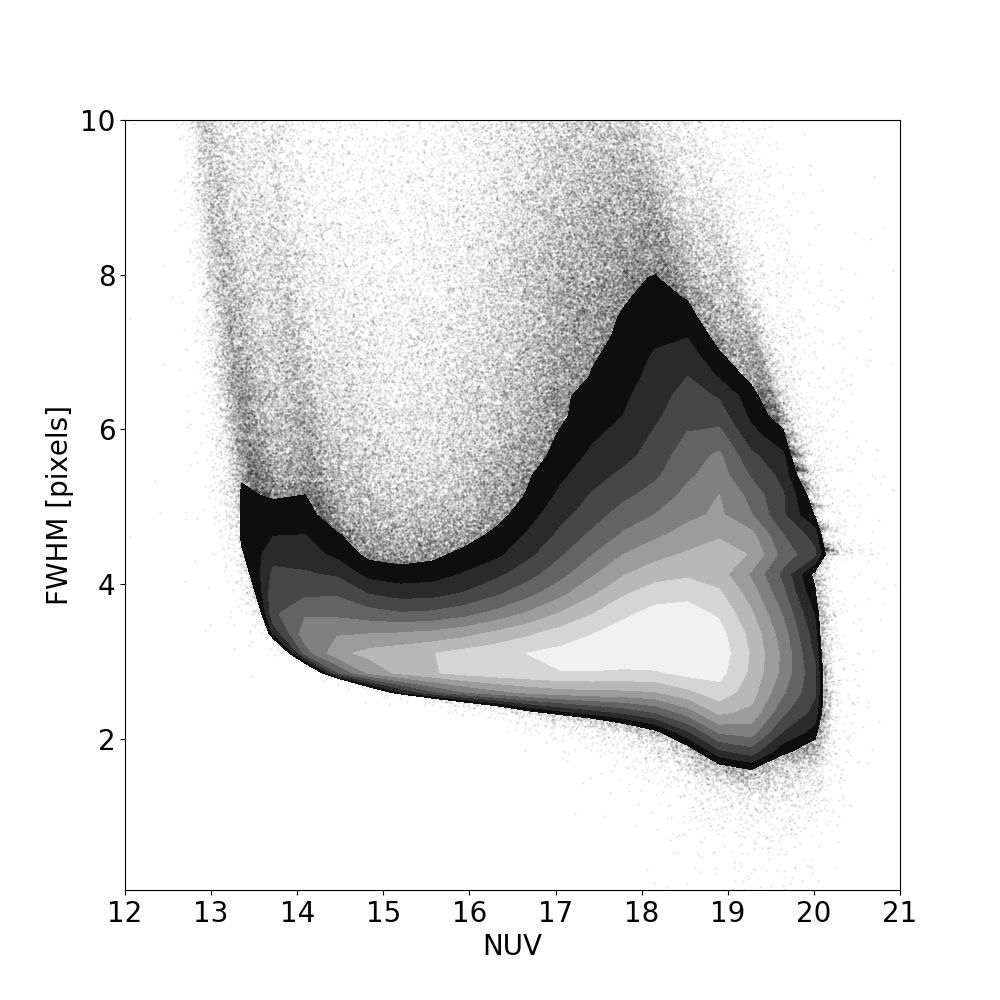
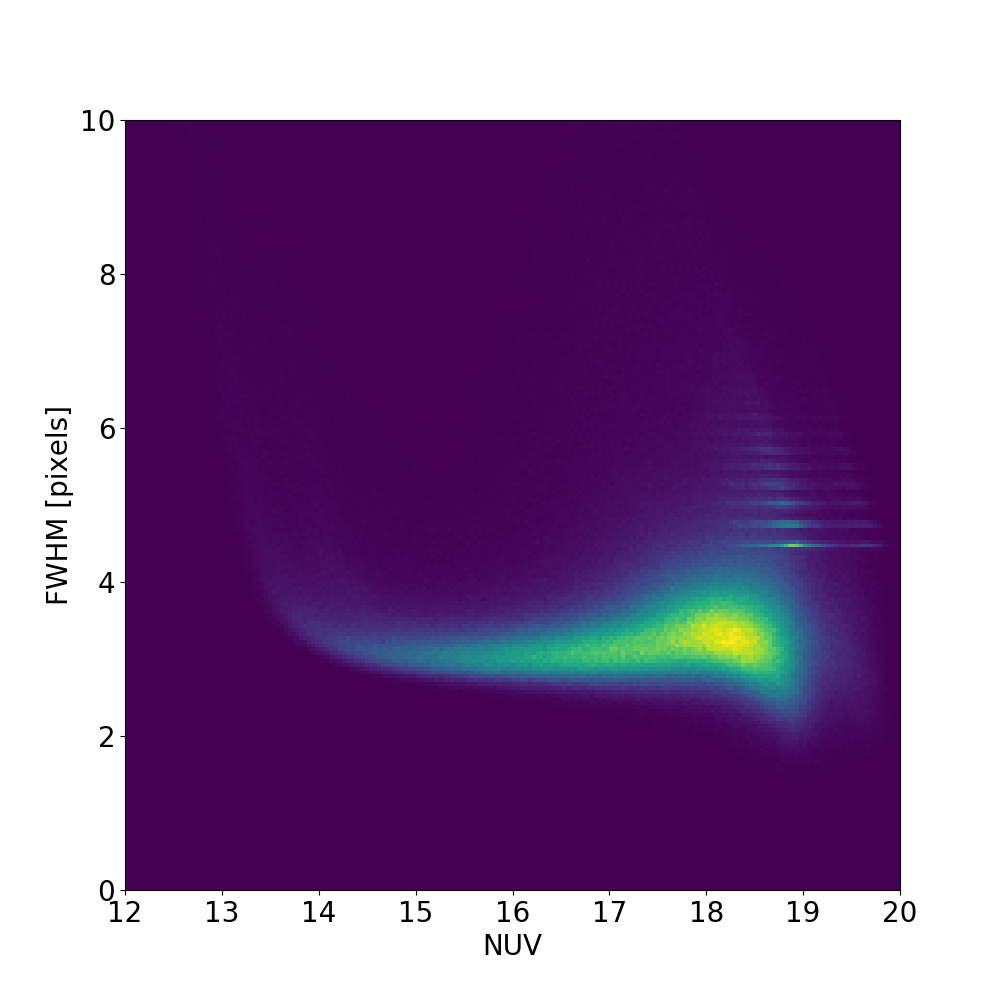
new images

diff --git a/pipeline/planepaperplots.py b/pipeline/planepaperplots.py
@@ -149,7 +149,7 @@ plt.show()
 ############################################################
 # NUV comparison
 ############################################################
-gg = fits.open('plane_gais_11_27_18.fits')[1].data
+gg = fits.open('plane_gais_06_12_19.fits')[1].data
 
 '''
 averages = []
@@ -163,11 +163,11 @@ for mag in np.arange(12.5, 20.5, 0.5):
 '''
 
 # Subtract 0.25 mag from plane NUV because the offset was added to the _cut.fits file
-scatter_contour(gg['nuv_mag'], gg['nuv_mag']-(gg['nuv']-0.25), threshold=10000, log_counts=True, histogram2d_args=dict(bins=(40)), plot_args=dict(color='k', markersize=1, alpha=0.1), contour_args=dict(cmap=cm.gray))
+scatter_contour(gg['nuv_mag'], gg['nuv_mag']-(gg['nuv']), threshold=10000, log_counts=True, histogram2d_args=dict(bins=(40)), plot_args=dict(color='k', markersize=1, alpha=0.1), contour_args=dict(cmap=cm.gray))
 
 plt.axhline(y=0, color='red')
-plt.xlim(12, 22.5)
-plt.ylim(-1, 1.5)
+plt.xlim(13, 21)
+plt.ylim(-0.5, 1)
 plt.xlabel('NUV (GAIS)')
 plt.ylabel('$\Delta$NUV (GAIS - Plane)')
 plt.show()
@@ -282,13 +282,21 @@ ra = np.array(g['ra_cent'], dtype=np.float32)
 dec = np.array(g['dec_cent'], dtype=np.float32)
 gal = SkyCoord(ra*u.deg, dec*u.deg, frame='icrs').galactic
 
-#cat = fits.open('starcat_allscans_10-12-18_cuts.fits')[1].data
+cat = fits.open('starcat_allscans_06_12_19.fits')[1].data
+w = np.where((cat['expsum'] > 4) & (cat['ctsum'] > 1))
+cat = cat[w]
 catgal = SkyCoord(cat['gl']*u.deg, cat['gb']*u.deg, frame='galactic')
 cid, gid, angsep, ang3d = gal.search_around_sky(catgal, 3*u.degree)
 q = np.unique(cid)
 carea = cat[q]
 
-#galex = fits.open('GAISPlane.fits')[1].data
+
+# Or load this instead
+carea = fits.open('plane_ingaisarea.fits')[1].data
+
+galex = fits.open('GAISPlane.fits')[1].data
+q = np.where((galex['nuv_magerr'] > 0) & (galex['nuv_magerr'] < 100) & (galex['nuv_magerr']/galex['nuv_mag'] < 0.1))
+galex = galex[q]
 
 plt.hist(galex['nuv_mag'], range=[12,25], bins=20, label='GAIS', log=True, alpha=0.7, color='#00E6FF')
 plt.hist(carea['nuv'], range=[12,25], bins=20, histtype='step', linewidth=2, stacked=True, label='UVGAPS in GAIS area', log=True, color='red')
@@ -326,6 +334,26 @@ cind, cgind, a, b = search_around_sky(catgal, cggal, 0.1*u.arcsec)
 cat.remove_rows(cind)
 
 len(cat)
+
+############################################################
+# Exposure time vs gb
+############################################################
+exp = fits.open('expdata_11_28_18.fits')[1].data
+
+scans = ['scan0.5', 'scan1.4', 'scan2.3', 'scan3.2', 'scan4.1', 'scan5.0', 'scan5.9', 'scan6.8', 'scan8.6', 'scan9.5', 'scan10.4', 'scan11.3', 'scan12.2', 'scan14.0', 'scan14.9', 'scan15.8', 'scan16.7', 'scan17.6', 'scan18.5', 'scan19.4', 'scan20.3', 'scan21.2', 'scan22.1', 'scan23.0', 'scan23.9', 'scan24.8', 'scan25.7', 'scan28.4', 'scan29.3', 'scan30.2', 'scan31.1', 'scan32.0', 'scan32.9', 'scan33.8', 'scan34.7', 'scan35.6', 'scan39.2', 'scan42.8', 'scan43.7', 'scan44.6', 'scan45.5', 'scan46.4', 'scan47.3', 'scan48.2', 'scan49.1', 'scan50.0', 'scan67.1', 'scan68.9', 'scan71.6', 'scan74.3', 'scan75.2', 'scan76.1', 'scan77.0', 'scan77.9', 'scan78.8', 'scan79.7', 'scan80.6', 'scan81.5', 'scan82.4', 'scan83.3', 'scan87.8', 'scan88.7', 'scan89.6', 'scan90.5', 'scan91.4', 'scan92.3', 'scan93.2', 'scan94.1', 'scan95.0', 'scan95.9', 'scan96.8', 'scan97.7', 'scan98.6', 'scan99.5', 'scan100.4', 'scan101.3', 'scan102.2', 'scan103.1', 'scan104.0', 'scan104.9', 'scan105.8', 'scan106.7', 'scan107.6', 'scan110.3', 'scan111.2', 'scan112.1', 'scan113.0', 'scan113.9', 'scan114.8', 'scan119.3', 'scan121.1', 'scan122.9', 'scan124.7', 'scan125.6', 'scan126.5', 'scan127.4', 'scan128.3', 'scan129.2', 'scan130.1', 'scan131.0', 'scan131.9', 'scan132.8', 'scan133.7', 'scan134.6', 'scan135.5', 'scan136.4', 'scan137.3', 'scan138.2', 'scan139.1', 'scan140.0', 'scan140.9', 'scan141.8', 'scan143.6', 'scan144.5', 'scan145.4', 'scan148.1', 'scan149.0', 'scan149.9', 'scan150.8', 'scan151.7', 'scan152.6', 'scan153.5', 'scan155.3', 'scan156.2', 'scan157.1', 'scan158.0', 'scan160.7', 'scan161.6', 'scan163.4', 'scan167.0', 'scan167.9', 'scan172.4', 'scan173.3', 'scan174.2', 'scan175.1', 'scan176.0', 'scan176.9', 'scan177.8', 'scan178.7', 'scan179.6', 'scan180.5', 'scan183.2', 'scan185.0', 'scan190.4', 'scan191.3', 'scan197.6', 'scan198.5', 'scan200.3', 'scan201.2', 'scan203.0', 'scan203.9', 'scan205.7', 'scan206.6', 'scan207.5', 'scan208.4', 'scan209.3', 'scan210.2', 'scan211.1', 'scan212.0', 'scan212.9', 'scan213.8', 'scan214.7', 'scan215.6', 'scan216.5', 'scan217.4', 'scan218.3', 'scan219.2', 'scan220.1', 'scan221.0', 'scan221.9', 'scan222.8', 'scan223.7', 'scan224.6', 'scan225.5', 'scan226.4', 'scan228.2', 'scan229.1', 'scan230.0', 'scan230.9', 'scan231.8', 'scan234.5', 'scan235.4', 'scan236.3', 'scan237.2', 'scan238.1', 'scan239.0', 'scan239.9', 'scan240.8', 'scan241.7', 'scan242.6', 'scan243.5', 'scan244.4', 'scan245.3', 'scan246.2', 'scan247.1', 'scan248.0', 'scan248.9', 'scan249.8', 'scan250.7', 'scan251.6', 'scan252.5', 'scan253.4', 'scan254.3', 'scan255.2', 'scan256.1', 'scan257.0', 'scan258.8', 'scan259.7', 'scan260.6', 'scan261.5', 'scan263.3', 'scan264.2', 'scan265.1', 'scan266.0', 'scan266.9', 'scan268.7', 'scan269.6', 'scan270.5', 'scan271.4', 'scan272.3', 'scan273.2', 'scan274.1', 'scan275.0', 'scan275.9', 'scan276.8', 'scan278.6', 'scan279.5', 'scan281.3', 'scan283.1', 'scan284.0', 'scan285.8', 'scan286.7', 'scan288.5', 'scan289.4', 'scan290.3', 'scan291.2', 'scan292.1', 'scan293.0', 'scan293.9', 'scan295.7', 'scan297.5', 'scan298.4', 'scan301.1', 'scan302.0', 'scan302.9', 'scan303.8', 'scan304.7', 'scan305.6', 'scan306.5', 'scan308.3', 'scan309.2', 'scan310.1', 'scan315.5', 'scan316.4', 'scan317.3', 'scan318.2', 'scan319.1', 'scan320.0', 'scan320.9', 'scan321.8', 'scan322.7', 'scan323.6', 'scan324.5', 'scan325.4', 'scan326.3', 'scan327.2', 'scan328.1', 'scan329.0', 'scan329.9', 'scan331.7', 'scan332.6', 'scan333.5', 'scan334.4', 'scan335.3', 'scan338.0', 'scan338.9', 'scan339.8', 'scan341.6', 'scan342.5', 'scan343.4', 'scan345.2', 'scan348.8', 'scan349.7', 'scan350.6', 'scan351.5', 'scan352.4', 'scan353.3', 'scan354.2', 'scan355.1', 'scan356.0', 'scan357.8', 'scan358.7', 'scan359.0']
+
+expvals = 0
+for i in range(len(scans)):
+    expvals += exp[scans[i]]
+    #if (i % 20 == 0) & (i != 0):
+    expvals = expvals#/20.
+    plt.plot(np.linspace(-10, 10, len(expvals)), expvals, label=str(i), linewidth=0.1, alpha=0.3)
+    expvals = 0
+plt.xlabel('Galactic Latitude')
+plt.ylabel('Exposure time [s]')
+plt.ylim(0, 200)
+plt.show()
+
 
 
 

diff --git a/pipeline/misc.py b/pipeline/misc.py
@@ -384,8 +384,8 @@ for i in range(len(sg)):
 ######################################################################
 sg = fits.open('gais_tgas_apass_dust.fits')[1].data
 sg = sg[~np.isnan(sg['ebv'])]
-
-fig, (ax1, ax2) = plt.subplots(2, 1)
+artefact
+fig, (ax1, ax2) = plt.subplots(2, 1)artefact
 scatter_contour((sg['nuv_mag']-sg['ebv']*7.24)-(sg['phot_g_mean_mag']-sg['ebv']*3.303), (sg['MNUV']-sg['ebv']*7.24), threshold=1000, log_counts=True, histogram2d_args=dict(bins=40), plot_args=dict(color='k', markersize=1, alpha=0.1), contour_args=dict(cmap=cm.gray), ax=ax2)
 scatter_contour((sg['nuv_mag']-sg['ebv']*7.24)-(sg['phot_g_mean_mag']-sg['ebv']*3.303), (sg['MG']-sg['ebv']*3.303), threshold=1000, log_counts=True, histogram2d_args=dict(bins=40), plot_args=dict(color='k', markersize=1, alpha=0.1), contour_args=dict(cmap=cm.gray), ax=ax1)
 ax1.set_xlim((0, 12))
@@ -920,15 +920,20 @@ for scan in scans:
 ascii.write(allexp, 'expdata_11_28_18.txt', format='basic')
 
 
+exp = fits.open('expdata_11_28_18.fits')[1].data
+
 scans = ['scan0.5', 'scan1.4', 'scan2.3', 'scan3.2', 'scan4.1', 'scan5.0', 'scan5.9', 'scan6.8', 'scan8.6', 'scan9.5', 'scan10.4', 'scan11.3', 'scan12.2', 'scan14.0', 'scan14.9', 'scan15.8', 'scan16.7', 'scan17.6', 'scan18.5', 'scan19.4', 'scan20.3', 'scan21.2', 'scan22.1', 'scan23.0', 'scan23.9', 'scan24.8', 'scan25.7', 'scan28.4', 'scan29.3', 'scan30.2', 'scan31.1', 'scan32.0', 'scan32.9', 'scan33.8', 'scan34.7', 'scan35.6', 'scan39.2', 'scan42.8', 'scan43.7', 'scan44.6', 'scan45.5', 'scan46.4', 'scan47.3', 'scan48.2', 'scan49.1', 'scan50.0', 'scan67.1', 'scan68.9', 'scan71.6', 'scan74.3', 'scan75.2', 'scan76.1', 'scan77.0', 'scan77.9', 'scan78.8', 'scan79.7', 'scan80.6', 'scan81.5', 'scan82.4', 'scan83.3', 'scan87.8', 'scan88.7', 'scan89.6', 'scan90.5', 'scan91.4', 'scan92.3', 'scan93.2', 'scan94.1', 'scan95.0', 'scan95.9', 'scan96.8', 'scan97.7', 'scan98.6', 'scan99.5', 'scan100.4', 'scan101.3', 'scan102.2', 'scan103.1', 'scan104.0', 'scan104.9', 'scan105.8', 'scan106.7', 'scan107.6', 'scan110.3', 'scan111.2', 'scan112.1', 'scan113.0', 'scan113.9', 'scan114.8', 'scan119.3', 'scan121.1', 'scan122.9', 'scan124.7', 'scan125.6', 'scan126.5', 'scan127.4', 'scan128.3', 'scan129.2', 'scan130.1', 'scan131.0', 'scan131.9', 'scan132.8', 'scan133.7', 'scan134.6', 'scan135.5', 'scan136.4', 'scan137.3', 'scan138.2', 'scan139.1', 'scan140.0', 'scan140.9', 'scan141.8', 'scan143.6', 'scan144.5', 'scan145.4', 'scan148.1', 'scan149.0', 'scan149.9', 'scan150.8', 'scan151.7', 'scan152.6', 'scan153.5', 'scan155.3', 'scan156.2', 'scan157.1', 'scan158.0', 'scan160.7', 'scan161.6', 'scan163.4', 'scan167.0', 'scan167.9', 'scan172.4', 'scan173.3', 'scan174.2', 'scan175.1', 'scan176.0', 'scan176.9', 'scan177.8', 'scan178.7', 'scan179.6', 'scan180.5', 'scan183.2', 'scan185.0', 'scan190.4', 'scan191.3', 'scan197.6', 'scan198.5', 'scan200.3', 'scan201.2', 'scan203.0', 'scan203.9', 'scan205.7', 'scan206.6', 'scan207.5', 'scan208.4', 'scan209.3', 'scan210.2', 'scan211.1', 'scan212.0', 'scan212.9', 'scan213.8', 'scan214.7', 'scan215.6', 'scan216.5', 'scan217.4', 'scan218.3', 'scan219.2', 'scan220.1', 'scan221.0', 'scan221.9', 'scan222.8', 'scan223.7', 'scan224.6', 'scan225.5', 'scan226.4', 'scan228.2', 'scan229.1', 'scan230.0', 'scan230.9', 'scan231.8', 'scan234.5', 'scan235.4', 'scan236.3', 'scan237.2', 'scan238.1', 'scan239.0', 'scan239.9', 'scan240.8', 'scan241.7', 'scan242.6', 'scan243.5', 'scan244.4', 'scan245.3', 'scan246.2', 'scan247.1', 'scan248.0', 'scan248.9', 'scan249.8', 'scan250.7', 'scan251.6', 'scan252.5', 'scan253.4', 'scan254.3', 'scan255.2', 'scan256.1', 'scan257.0', 'scan258.8', 'scan259.7', 'scan260.6', 'scan261.5', 'scan263.3', 'scan264.2', 'scan265.1', 'scan266.0', 'scan266.9', 'scan268.7', 'scan269.6', 'scan270.5', 'scan271.4', 'scan272.3', 'scan273.2', 'scan274.1', 'scan275.0', 'scan275.9', 'scan276.8', 'scan278.6', 'scan279.5', 'scan281.3', 'scan283.1', 'scan284.0', 'scan285.8', 'scan286.7', 'scan288.5', 'scan289.4', 'scan290.3', 'scan291.2', 'scan292.1', 'scan293.0', 'scan293.9', 'scan295.7', 'scan297.5', 'scan298.4', 'scan301.1', 'scan302.0', 'scan302.9', 'scan303.8', 'scan304.7', 'scan305.6', 'scan306.5', 'scan308.3', 'scan309.2', 'scan310.1', 'scan315.5', 'scan316.4', 'scan317.3', 'scan318.2', 'scan319.1', 'scan320.0', 'scan320.9', 'scan321.8', 'scan322.7', 'scan323.6', 'scan324.5', 'scan325.4', 'scan326.3', 'scan327.2', 'scan328.1', 'scan329.0', 'scan329.9', 'scan331.7', 'scan332.6', 'scan333.5', 'scan334.4', 'scan335.3', 'scan338.0', 'scan338.9', 'scan339.8', 'scan341.6', 'scan342.5', 'scan343.4', 'scan345.2', 'scan348.8', 'scan349.7', 'scan350.6', 'scan351.5', 'scan352.4', 'scan353.3', 'scan354.2', 'scan355.1', 'scan356.0', 'scan357.8', 'scan358.7', 'scan359.0']
 
 expvals = 0
-for i in range(len(exp)):
+for i in range(len(scans)):
     expvals += exp[scans[i]]
-    if (i % 20 == 0) & (i != 0):
-        expvals = expvals/20.
-        plt.plot(np.linspace(-10, 10, len(expvals)), expvals, label=str(i))
-        expvals = 0
+    #if (i % 20 == 0) & (i != 0):
+    expvals = expvals#/20.
+    plt.plot(np.linspace(-10, 10, len(expvals)), expvals, label=str(i), linewidth=0.1, alpha=0.3)
+    expvals = 0
+plt.xlabel('Galactic Latitude')
+plt.ylabel('Exposure time [s]')
+plt.ylim(0, 200)
 plt.show()
 
 
